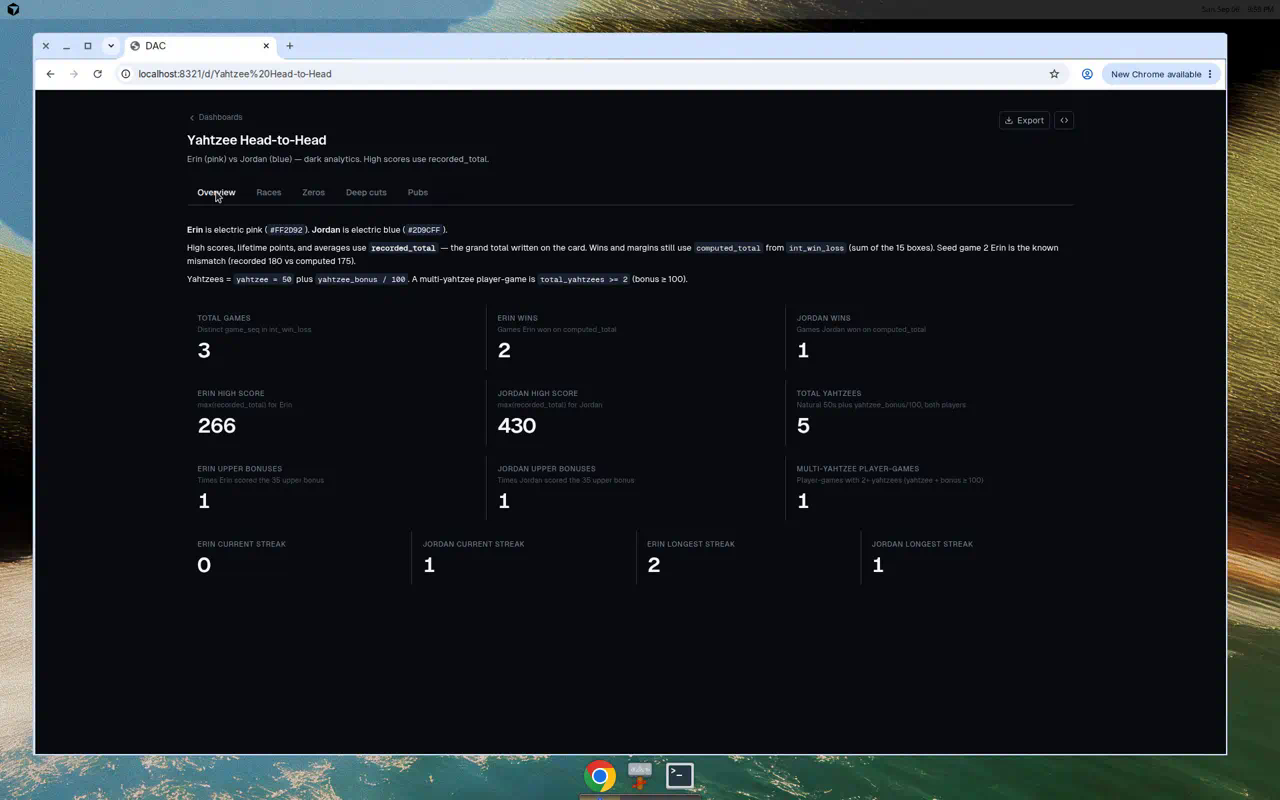
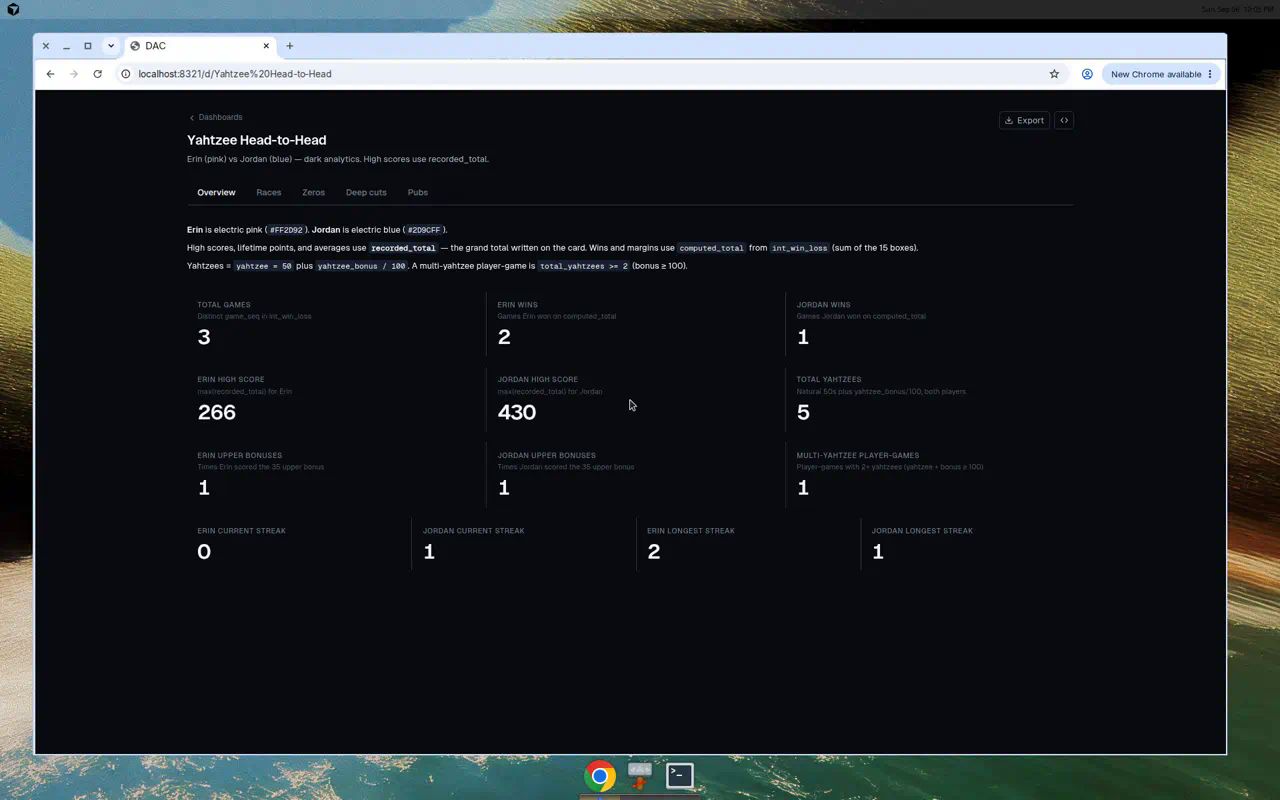
Hide totals mismatches from the DAC dashboard
Drop the mismatch KPI, spot-check table, and Overview copy. Keep
totals_match on fact_games for pipeline QA; seed cleanup is separate.

diff --git a/dashboard/README.md b/dashboard/README.md
@@ -8,12 +8,12 @@ Erin is electric pink (`#FF2D92`), Jordan is electric blue (`#2D9CFF`).
 | **Overview** | Headline KPIs: games, wins, high scores (`recorded_total`), yahtzees, upper bonuses, multi-yahtzee player-games, streaks |
 | **Races** | Cumulative wins, cumulative yahtzees, yahtzees-per-game + cumulative multi-yahtzee games (`game_seq` on x) |
 | **Zeros** | Zeros per game (bonuses excluded), lower-section miss rates (FH / SS / LS / Yahtzee), category table |
-| **Deep cuts** | Lifetime points, avg/median, bonus & yahtzee rates, upper/chance averages, margin histogram, closest/blowouts, commentary, totals spot-check |
+| **Deep cuts** | Lifetime points, avg/median, bonus & yahtzee rates, upper/chance averages, margin histogram, closest/blowouts, commentary |
 | **Pubs** | Link to the standalone Leaflet map + venue table. Not joined to games. |
 
 Queries hit DuckDB marts (`mart_headline_kpis`, `mart_player_kpis`,
 `mart_game_trends`, `mart_category_stats`, plus `mart_head_to_head` /
-`fact_games` / `mart_pub_locations`).
+`mart_pub_locations`).
 
 DAC 0.15 cannot embed Leaflet/MapKit. The real map is `pub_map.html` (OSM
 tiles, no API key). See `pub_map.md` for regenerate / serve / `dac build`.
